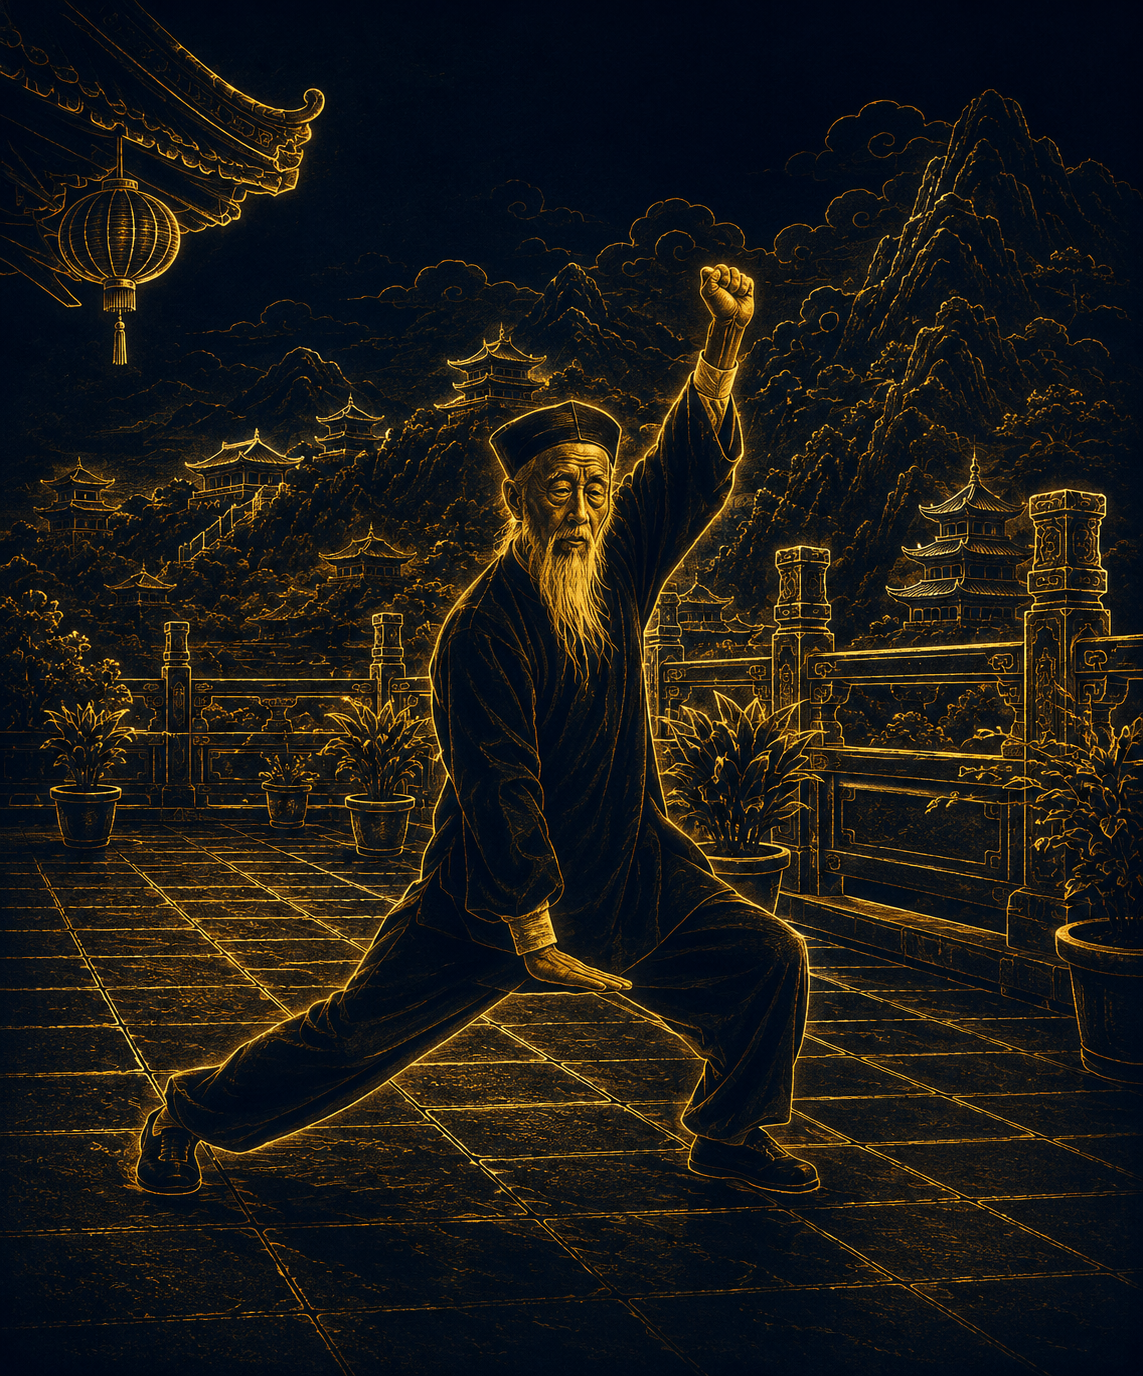
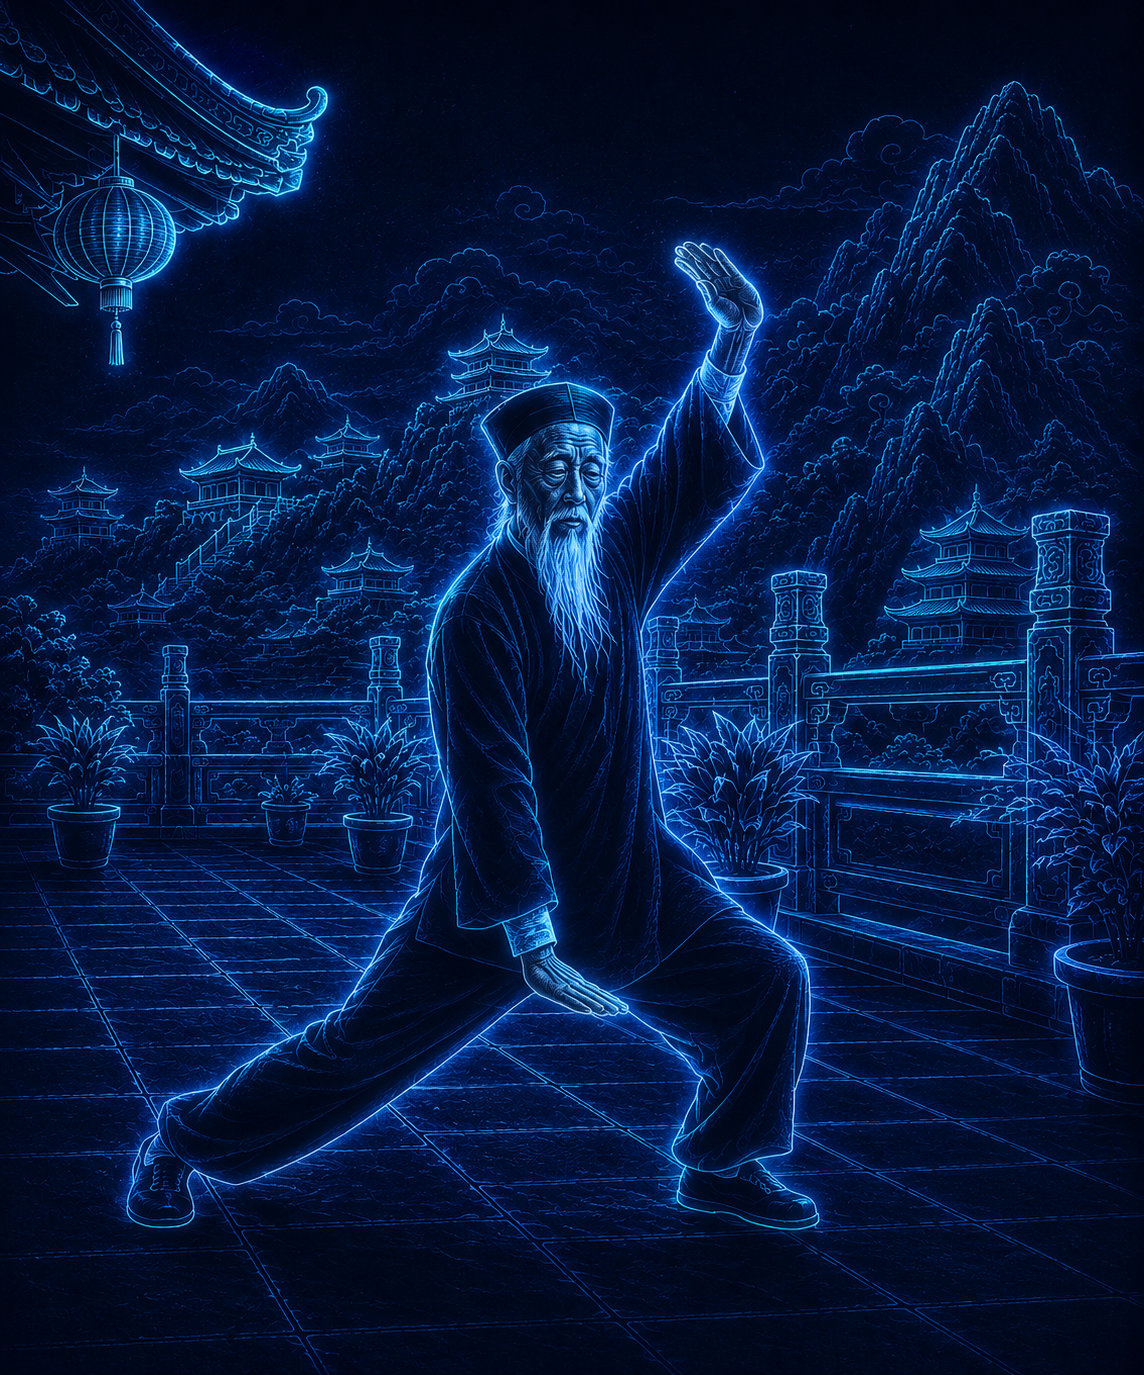
feat: синяя рамка и фото, отступы между кружками = радиус
- circle-frame-blue.png: новая синяя рамка с греческим орнаментом
- exercise-placeholder.png: новое синее неоновое фото мастера
- GateCircle: w-full + aspect-ratio 1 — кружки заполняют колонку
- PracticeSection: gap 9.09vw = радиус круга
- GateCircle: mt-0.5 — текст вплотную к кружку
- Китайское название цветом #7ec8f5 (голубой)

diff --git a/src/components/GateCircle.tsx b/src/components/GateCircle.tsx
@@ -8,24 +8,21 @@ interface Props {
   onClick: (exercise: Exercise) => void
 }
 
-// Максимальный размер для 4 колонок — почти вся ширина экрана
-const CARD_SIZE = 'clamp(80px, 23.5vw, 450px)'
-
 export default function GateCircle({ exercise, onClick }: Props) {
   const { t } = useTranslation()
 
   return (
     <motion.div
-      className="flex flex-col items-center cursor-pointer select-none"
+      className="flex flex-col items-center cursor-pointer select-none w-full"
       whileHover={{ scale: 1.04 }}
       whileTap={{ scale: 0.96 }}
       transition={{ type: 'spring', stiffness: 260, damping: 22 }}
       onClick={() => onClick(exercise)}
     >
-      {/* Карточка — рамка + фото */}
+      {/* Карточка — рамка + фото, заполняет колонку */}
       <div
-        className="relative"
-        style={{ width: CARD_SIZE, height: CARD_SIZE }}
+        className="relative w-full"
+        style={{ aspectRatio: '1' }}
       >
         {/* Фото внутри круга */}
         <div
@@ -47,22 +44,27 @@ export default function GateCircle({ exercise, onClick }: Props) {
           )}
         </div>
 
-        {/* Золотая рамка поверх */}
+        {/* Синяя рамка поверх */}
         <img
-          src="/images/circle-frame.png"
+          src="/images/circle-frame-blue.png"
           alt=""
           aria-hidden
           className="absolute inset-0 w-full h-full object-contain pointer-events-none"
-          style={{ zIndex: 2, mixBlendMode: 'screen', filter: 'brightness(1.15)' }}
+          style={{
+            zIndex: 2,
+            mixBlendMode: 'screen',
+            filter: 'invert(1) hue-rotate(195deg) brightness(1.4) saturate(2.5)',
+          }}
+          draggable={false}
         />
       </div>
 
-      {/* Китайское название — золотым */}
+      {/* Китайское название — близко к кругу */}
       <div
-        className="mt-2 text-center font-sans"
+        className="mt-0.5 text-center font-sans"
         style={{
           fontSize: 'clamp(0.55rem, 1.1vw, 0.85rem)',
-          color: '#d4a853',
+          color: '#7ec8f5',
           letterSpacing: '0.06em',
           lineHeight: 1.3,
         }}
@@ -70,7 +72,7 @@ export default function GateCircle({ exercise, onClick }: Props) {
         {t(exercise.nameKey)}
       </div>
 
-      {/* Русский перевод — белым */}
+      {/* Русский перевод */}
       <div
         className="text-center font-sans px-1"
         style={{
@@ -78,7 +80,7 @@ export default function GateCircle({ exercise, onClick }: Props) {
           color: '#d8cfc4',
           letterSpacing: '0.03em',
           lineHeight: 1.3,
-          marginTop: '2px',
+          marginTop: '1px',
           maxWidth: '110%',
         }}
       >

diff --git a/src/components/PracticeSection.tsx b/src/components/PracticeSection.tsx
@@ -77,8 +77,8 @@ export default function PracticeSection({
 
         {/* Сетка кружков — 2 колонки */}
         <motion.div
-          className="grid grid-cols-4 gap-1"
-          style={{ maxWidth: '100%', width: '100%' }}
+          className="grid grid-cols-4"
+          style={{ maxWidth: '100%', width: '100%', gap: '9.09vw' }}
           initial={{ opacity: 0 }}
           whileInView={{ opacity: 1 }}
           viewport={{ once: true, margin: '-60px' }}